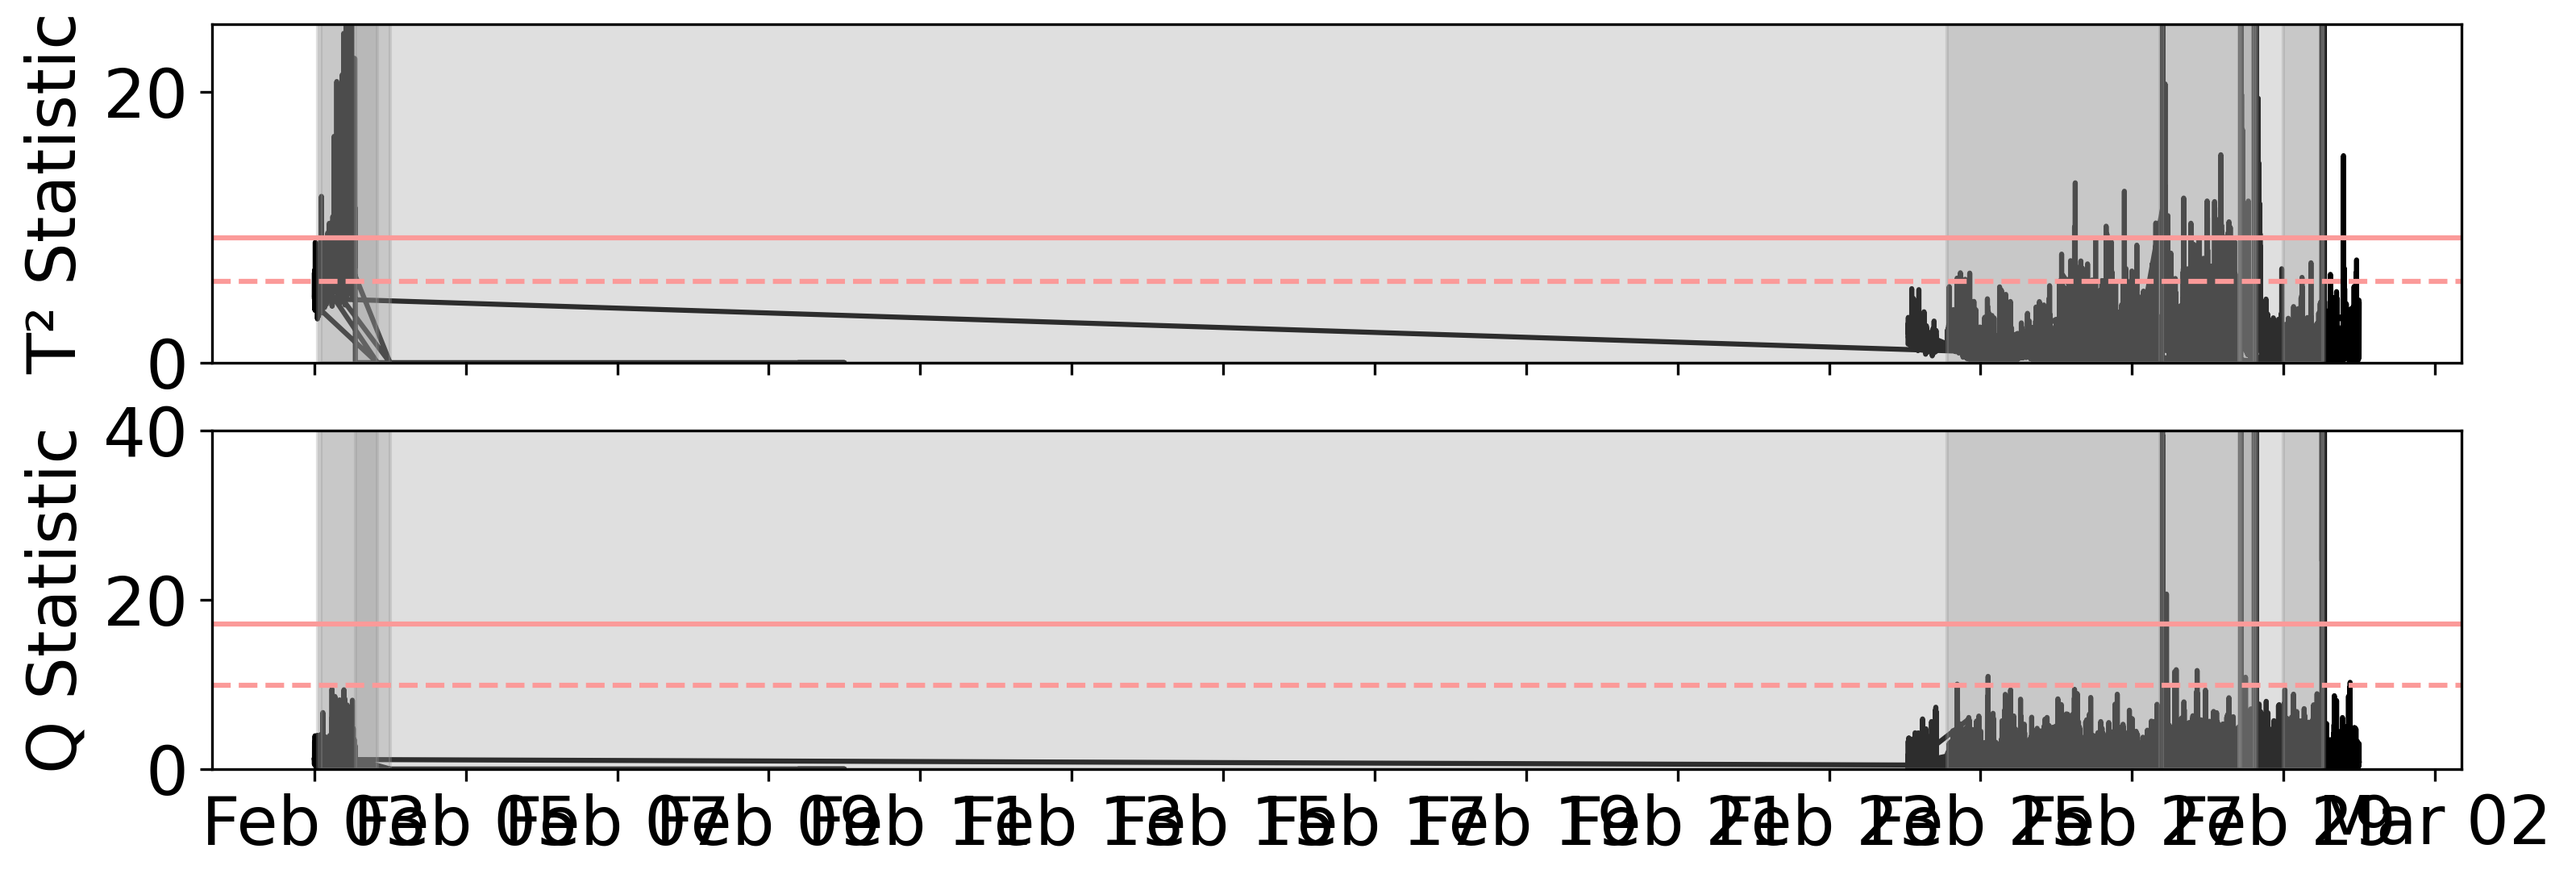
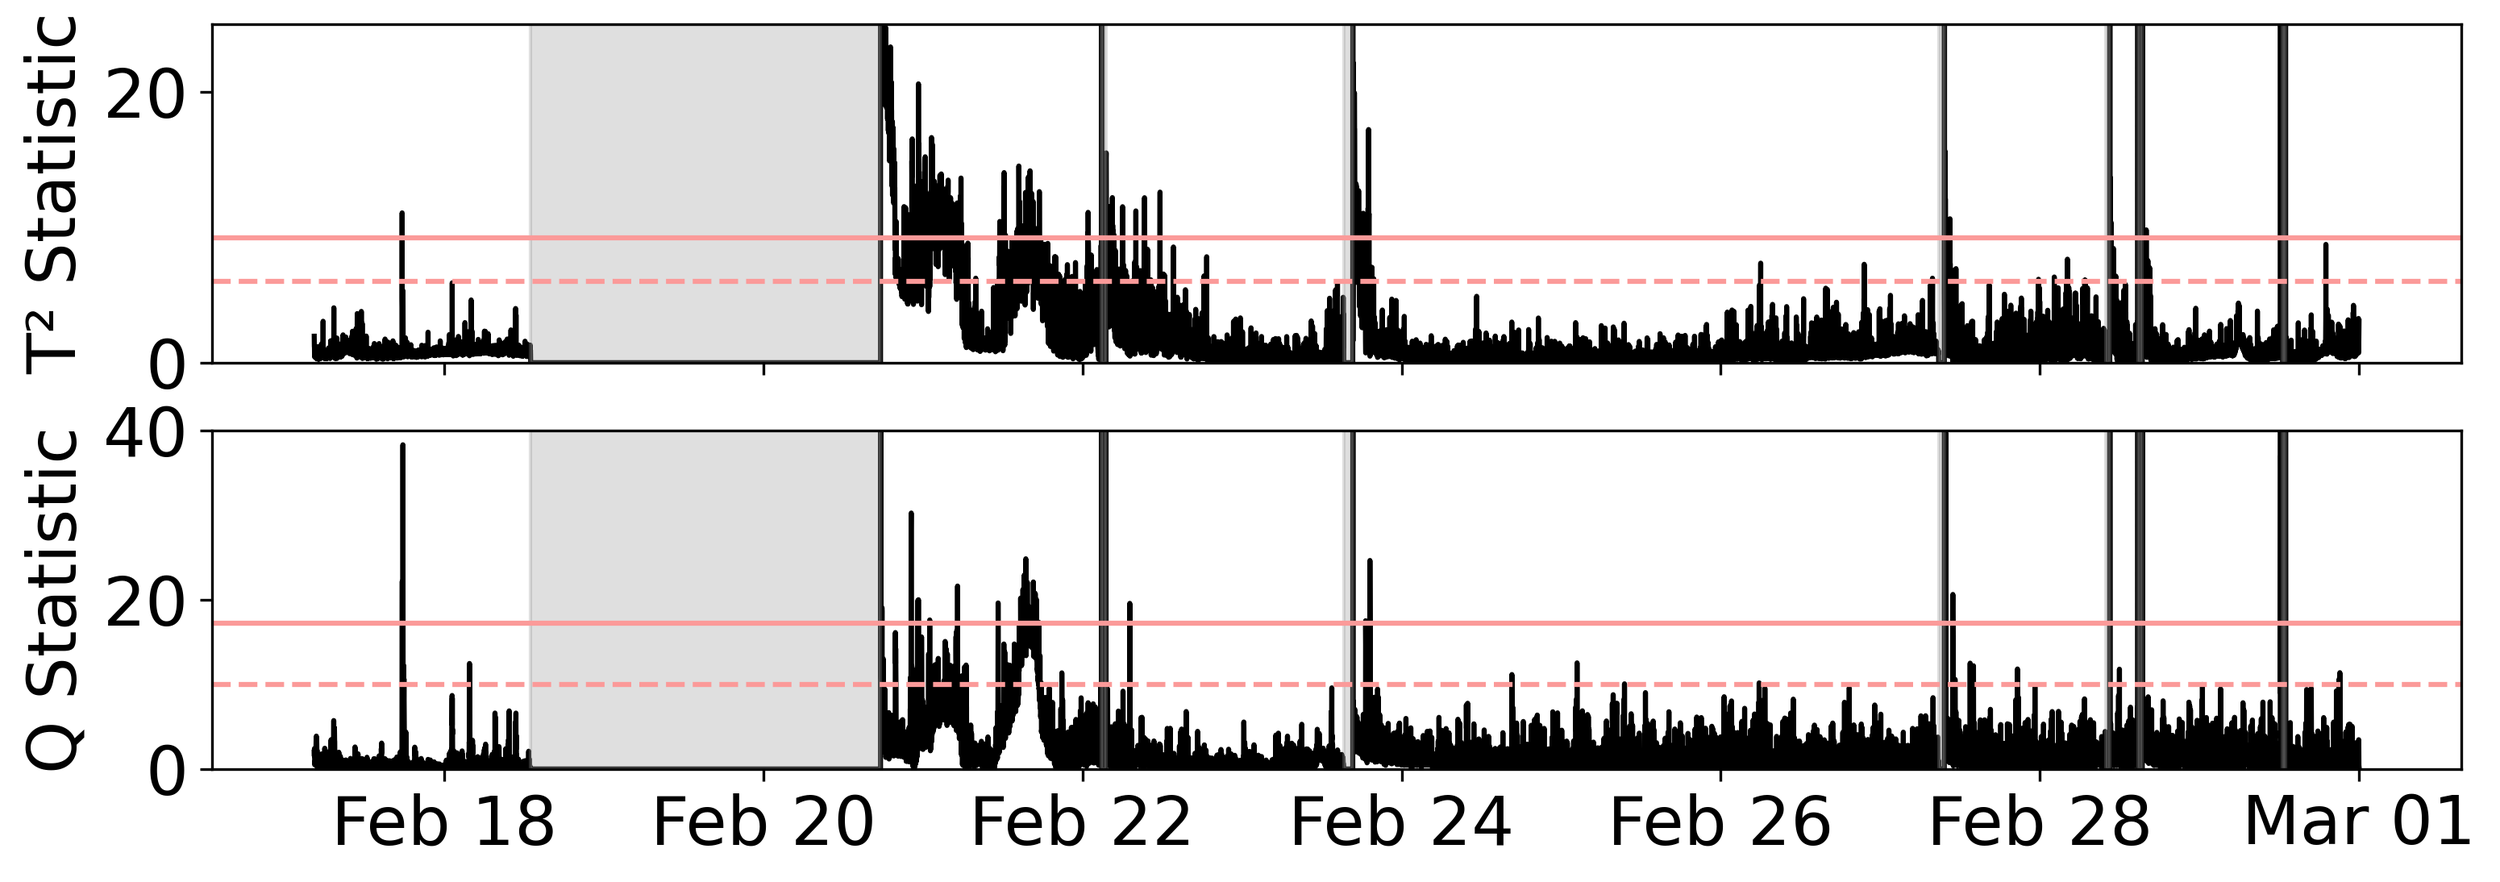
Got fault detection to work!

diff --git a/fault_detection.py b/fault_detection.py
@@ -57,14 +57,13 @@ class MeasurementData:
                 sub_data.append(pd.read_csv(os.path.join(self.data_folder, file)))
         # Concatenate all data files
         data = pd.concat(sub_data)
+        data["From date"] = pd.to_datetime(data["From date"])
         data.drop(columns=['To date'], inplace=True)
         data.sort_values(by='From date', inplace=True)
         data.reset_index(drop=True, inplace=True)
         data.columns = [RO_tag_mappping[col] for col in data.columns]
 
         if self.columns:
-            print(data.columns)
-            print(self.columns)
             data = data[self.columns]
         print(f"Data loaded from {self.data_folder} with shape: {data.shape}")
         return data
@@ -83,16 +82,14 @@ class MeasurementData:
         plt.show()
 
     def filter_data(self, data, mode=1, col_name='Permeate flowrate (GPM)', cutoff=500):
-        # use permeate flowrate > 500 to filter data
-        # also return the index of the filtered data
         # TODO: change filtering to VirtualTag objects
         data_cp = data.copy()
         if mode == 0:
             data_cp = data_cp[data_cp[col_name] < cutoff]
-            print(f"Filtered data with {col_name} <= 500, new shape: {data_cp.shape}")
+            print(f"Filtered data with {col_name} <= {cutoff}, new shape: {data_cp.shape}")
         elif mode == 1:
             data_cp = data_cp[data_cp[col_name] >= cutoff]
-            print(f"Filtered data with {col_name} > 500, new shape: {data_cp.shape}")
+            print(f"Filtered data with {col_name} > {cutoff}, new shape: {data_cp.shape}")
         return data_cp
 
     def detect_and_clean_outliers(self, time_series, delta=0.3, K=1, bandwidth=13):
@@ -168,13 +165,11 @@ class MeasurementData:
 
         # update the data
         self.data = processed_data
-
         if self.train_test_split:
             m = len(processed_data)
             self.training_data = processed_data[:int(m * self.train_test_split)]
             self.testing_data = processed_data[int(m * self.train_test_split):]
             self.testing_data.reset_index(drop=True, inplace=True)
-        
         # Filter data
         if filter_data != -1:
             self.training_data_filtered = self.filter_data(self.training_data, filter_data)
@@ -236,6 +231,7 @@ class MeasurementData:
             plot_data = self.training_data.copy()
         elif mode == 'test':
             plot_data = self.testing_data.copy()
+            plot_data = self.testing_data[:self.test_index[-1]+1]
             # plot_data.reset_index(drop=True, inplace=True)
 
         print(f'Plotting {mode} data with shape: {plot_data.shape}')
@@ -243,31 +239,25 @@ class MeasurementData:
 
         # collect the off hours in a list of pairs (start, end) in self.testing_data
         off_hours = []
-        start = None
         end = self.test_index[0]
         for i in self.test_index:
-            if not start:
-                start = i
-                end = i
-                continue
             if (i-end) > 1:
-                off_hours.append((start, end+1))
-                start = i
+                off_hours.append((end, i))
             end = i
-        off_hours.append((start, end+1))
         self.off_hours = off_hours
 
         if combined:
             y_label_fontsize = 18
             dates = pd.to_datetime(plot_data['timestamp'])
+
             fig, axs = plt.subplots(4, 1, figsize=(12, 7), sharex=True)
             
             # Permeate flowrate (GPM) and Brine flowrate (GPM)
-            axs[0].plot(dates, plot_data['Permeate flowrate (GPM)'], label='Pre-treated water', color=RO_item_to_color['Permeate'], zorder=2)
+            axs[0].plot(dates, plot_data['Permeate flowrate (GPM)'], label='Permeate', color=RO_item_to_color['Permeate'], zorder=2)
             axs[0].plot(dates, plot_data['Brine flowrate (GPM)'], label='Brine', color=RO_item_to_color['Brine'], zorder=2)
             if shade:
                 for i, (start, end) in enumerate(off_hours):
-                    axs[0].axvspan(dates[start], dates[end], color=gray_color, alpha=0.3, zorder=2)
+                    axs[0].axvspan(dates[start], dates[end-1], color=gray_color, alpha=0.3, zorder=2)
             axs[0].set_ylabel('Flowrate\n(GPM)', fontsize=y_label_fontsize)
             axs[0].set_ylim(bottom=0, top=plot_data['Brine flowrate (GPM)'].max() * 1.1)
             
@@ -275,7 +265,7 @@ class MeasurementData:
             axs[1].plot(dates, plot_data['Permeate conductivity (uS/cm)'], label='Permeate', color=RO_item_to_color['Permeate'], zorder=1)
             if shade:
                 for i, (start, end) in enumerate(off_hours):
-                    axs[1].axvspan(dates[start], dates[end], color=gray_color, alpha=0.3)
+                    axs[1].axvspan(dates[start], dates[end-1], color=gray_color, alpha=0.3)
             axs[1].set_ylabel('Conductivity\n(uS/cm)', fontsize=y_label_fontsize)
             axs[1].set_ylim(bottom=0, top=plot_data['Permeate conductivity (uS/cm)'].max() * 1.1)
 
@@ -284,7 +274,7 @@ class MeasurementData:
             axs[2].plot(dates, plot_data['Circulation pump speed (Hz)'], label='Circulation pump', color=RO_item_to_color['Circulation pump'], linestyle='--')
             if shade:
                 for i, (start, end) in enumerate(off_hours):
-                    axs[2].axvspan(dates[start], dates[end], color=gray_color, alpha=0.3)
+                    axs[2].axvspan(dates[start], dates[end-1], color=gray_color, alpha=0.3)
             axs[2].set_ylabel('Pump\nspeed\n(Hz)', fontsize=y_label_fontsize)
             axs[2].set_ylim(bottom=0, top=plot_data['HP pump speed (Hz)'].max() * 1.1)
 
@@ -294,9 +284,9 @@ class MeasurementData:
             if shade:
                 for i, (start, end) in enumerate(off_hours):
                     if i == 0:
-                        axs[3].axvspan(dates[start], dates[end], color=gray_color, alpha=0.3, label='Off hours')
+                        axs[3].axvspan(dates[start], dates[end-1], color=gray_color, alpha=0.3, label='Off hours')
                     else:
-                        axs[3].axvspan(dates[start], dates[end], color=gray_color, alpha=0.3)
+                        axs[3].axvspan(dates[start], dates[end-1], color=gray_color, alpha=0.3)
             axs[3].set_ylabel('Pump\npressure\n(PSI)', fontsize=y_label_fontsize)
             axs[3].set_ylim(bottom=0, top=plot_data['HP pump pressure (PSI)'].max() * 1.1)
 
@@ -317,7 +307,7 @@ class MeasurementData:
                 ax.plot(plot_data[col])
                 if shade:
                     for start, end in off_hours:
-                        ax.axvspan(start, end, color=gray_color, alpha=0.3, label='Off hours')
+                        ax.axvspan(start, end-1, color=gray_color, alpha=0.3, label='Off hours')
                 if i > 0:
                     ax.sharex(axes[0])
                 else:
@@ -464,7 +454,7 @@ class FaultDetectionSystem:
         T2_stats_full_length = np.zeros(self.dataset.testing_data.shape[0])
         Q_stats_full_length = np.zeros(self.dataset.testing_data.shape[0])
 
-        # insert data in 
+        # insert data and leave zeros where it was filtered out
         c = 0
         for i in self.dataset.testing_data.index:
             if i in self.dataset.test_index:
@@ -485,7 +475,7 @@ class FaultDetectionSystem:
         # Plot T² statistics
         axs[0].plot(dates, stats_df['T2'], color='black')
         for i, (start, end) in enumerate(self.dataset.off_hours):
-            axs[0].axvspan(dates[start], dates[end], color=gray_color, alpha=0.3, zorder=2)
+            axs[0].axvspan(dates[start], dates[end-1], color=gray_color, alpha=0.3, zorder=2)
         axs[0].set_ylim(0, 25)
         axs[0].axhline(y=self.T2_threshold_1, color='#fb9a99', label='α=0.01')
         axs[0].axhline(y=self.T2_threshold_5, color='#fb9a99', linestyle='--', label='α=0.05')
@@ -494,7 +484,7 @@ class FaultDetectionSystem:
         # Plot Q statistics
         axs[1].plot(dates, stats_df['Q'], color='black')
         for i, (start, end) in enumerate(self.dataset.off_hours):
-            axs[1].axvspan(dates[start], dates[end], color=gray_color, alpha=0.3, zorder=2)
+            axs[1].axvspan(dates[start], dates[end-1], color=gray_color, alpha=0.3, zorder=2)
         axs[1].set_ylim(0, 40)
         axs[1].axhline(y=self.Q_threshold_1, color='#fb9a99', label='α=0.01')
         axs[1].axhline(y=self.Q_threshold_5, color='#fb9a99', linestyle='--', label='α=0.05')
@@ -570,7 +560,7 @@ class FaultDetectionSystem:
         
         return smoothed
         
-    def plot_combined_data_and_faults(self, plot_data, test_index, stats_df, save=None, shade=True):
+    def plot_combined_data_and_faults(self, plot_data, stats_df, save=None, shade=True):
         """
         Plot testing data alongside T² and Q statistics in a vertical stack of 6 plots with shared x-axis.
         
@@ -580,23 +570,7 @@ class FaultDetectionSystem:
         - mode: 'all', 'train', 'test' (default: 'test')
         - shade: Boolean to shade off-hours (flowrate < 500)
         """
-   
-        # Collect off hours
-        off_hours = []
-        start = None
-        end = test_index[0]
-        for i in test_index:
-            if not start:
-                start = i
-                end = i
-                continue
-            if (i - end) > 1:
-                off_hours.append((start, end + 1))
-                start = i
-            end = i
-        off_hours.append((start, end + 1))
-        self.off_hours = off_hours
-        off_hours = off_hours[:-1]
+        off_hours = self.dataset.off_hours
 
         # Prepare dates
         dates = pd.to_datetime(plot_data['timestamp'])
@@ -608,20 +582,20 @@ class FaultDetectionSystem:
         y_label_fontsize = 20
 
         # Plot 1: Flowrates (GPM)
-        axs[0].plot(dates, plot_data['Permeate flowrate (GPM)'], label='Pre-treated water', color=RO_item_to_color['Permeate'], zorder=2)
+        axs[0].plot(dates, plot_data['Permeate flowrate (GPM)'], label='Permeate', color=RO_item_to_color['Permeate'], zorder=2)
         axs[0].plot(dates, plot_data['Brine flowrate (GPM)'], label='Brine', color=RO_item_to_color['Brine'], zorder=2)
         if shade:
             for i, (start, end) in enumerate(off_hours):
-                axs[0].axvspan(dates[start], dates[end], color=gray_color, alpha=0.3, zorder=1)
+                axs[0].axvspan(dates[start], dates[end-1], color=gray_color, alpha=0.3, zorder=1)
         axs[0].set_ylabel('Flowrate\n(GPM)', fontsize=y_label_fontsize)
         axs[0].set_ylim(bottom=0, top=1000)
         axs[0].set_yticks([0, 500, 1000])
 
         # Plot 2: Conductivity (uS/cm)
-        axs[1].plot(dates, plot_data['Permeate conductivity (uS/cm)'], label='Pre-treated water', color=RO_item_to_color['Permeate'], zorder=1)
+        axs[1].plot(dates, plot_data['Permeate conductivity (uS/cm)'], label='Permeate', color=RO_item_to_color['Permeate'], zorder=1)
         if shade:
             for i, (start, end) in enumerate(off_hours):
-                axs[1].axvspan(dates[start], dates[end], color=gray_color, alpha=0.3)
+                axs[1].axvspan(dates[start], dates[end-1], color=gray_color, alpha=0.3)
         axs[1].set_ylabel('Conductivity\n(uS/cm)', fontsize=y_label_fontsize)
         axs[1].set_ylim(bottom=0, top=600)
         axs[1].set_yticks([0, 300, 600])
@@ -656,7 +630,7 @@ class FaultDetectionSystem:
         axs[4].plot(dates, stats_df['T2'], color='black', label='T²')
         if shade:
             for i, (start, end) in enumerate(off_hours):
-                axs[4].axvspan(dates[start], dates[end], color=gray_color, alpha=0.3, zorder=2)
+                axs[4].axvspan(dates[start], dates[end-1], color=gray_color, alpha=0.3, zorder=2)
         axs[4].axhline(y=self.T2_threshold_1, color='#fb9a99', label='α=0.01')
         axs[4].axhline(y=self.T2_threshold_5, color='#fb9a99', linestyle='--', label='α=0.05')
         axs[4].set_ylabel('T² Statistic', fontsize=y_label_fontsize)
@@ -668,9 +642,9 @@ class FaultDetectionSystem:
         if shade:
             for i, (start, end) in enumerate(off_hours):
                 if i == 0:
-                    axs[5].axvspan(dates[start], dates[end], color=gray_color, alpha=0.3, label='Off Hours')
+                    axs[5].axvspan(dates[start], dates[end-1], color=gray_color, alpha=0.3, label='Off Hours')
                 else:
-                    axs[5].axvspan(dates[start], dates[end], color=gray_color, alpha=0.3)
+                    axs[5].axvspan(dates[start], dates[end-1], color=gray_color, alpha=0.3)
         axs[5].axhline(y=self.Q_threshold_1, color='#fb9a99', label='α=0.01')
         axs[5].axhline(y=self.Q_threshold_5, color='#fb9a99', linestyle='--', label='α=0.05')
         axs[5].set_ylabel('Q Statistic', fontsize=y_label_fontsize)
@@ -729,7 +703,7 @@ if __name__ == '__main__':
     # fd_system.plot_pc(save=args.PC_plot)
     fd_system.plot_fault_detection(stats_df, save=args.T2Q_plot)
 
-    fd_system.plot_combined_data_and_faults(dataset.testing_data, dataset.test_index, stats_df, save="results/fault_detection/all.png", shade=True)
+    fd_system.plot_combined_data_and_faults(dataset.testing_data, stats_df, save="results/fault_detection/all.png", shade=True)
 
     for vt in fd_system.virtual_tags:
         print(vt)
